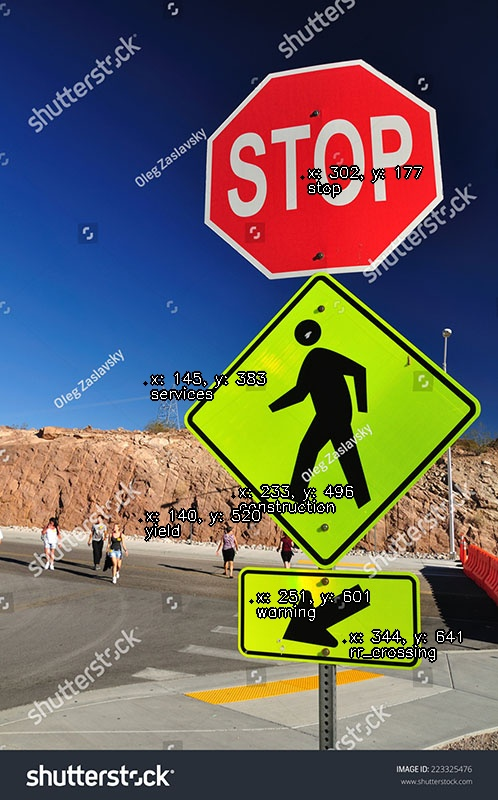
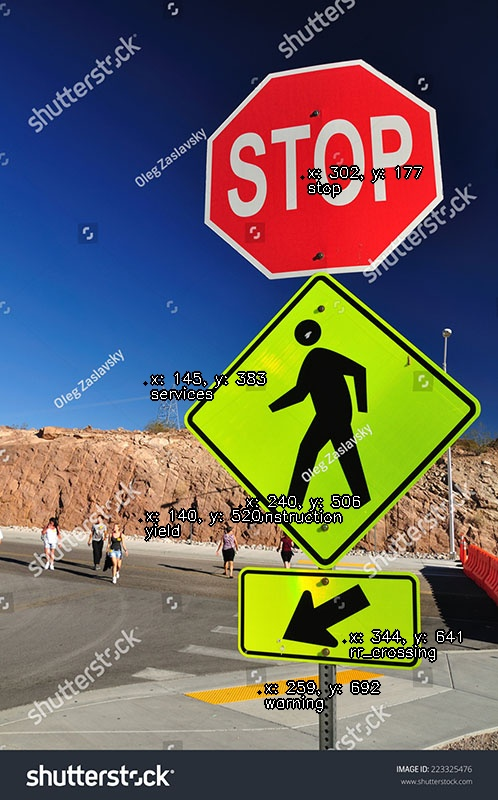
construction_fix

Changed region(s): [[0.4819, 0.5938, 0.7229, 0.6562], [0.512, 0.8438, 0.7831, 0.9062], [0.512, 0.7188, 0.753, 0.7812]]

diff --git a/homework/hw2/hw2.py b/homework/hw2/hw2.py
@@ -247,9 +247,9 @@ def identify_construction(img: np.ndarray) -> tuple:
     # Convert the image to HSV
     hsv = cv2.cvtColor(img_cp, cv2.COLOR_BGR2HSV)
 
-    # Define the color range for detecting yellow
-    lower_yellow = np.array([20, 100, 100])
-    upper_yellow = np.array([30, 255, 255])
+    # Define the color range for detecting orange
+    lower_orange = np.array([5, 100, 100])
+    upper_orange = np.array([20, 255, 255])
 
     # Create a mask for the orange color
     mask = cv2.inRange(hsv, lower_orange, upper_orange)
@@ -291,9 +291,9 @@ def identify_warning(img: np.ndarray) -> tuple:
     # Convert the image to HSV
     hsv = cv2.cvtColor(img_cp, cv2.COLOR_BGR2HSV)
 
-    # Define the color range for detecting orange
-    lower_orange = np.array([10, 100, 100])
-    upper_orange = np.array([25, 255, 255])
+    # Define the color range for detecting yellow
+    lower_yellow = np.array([22, 100, 100])
+    upper_yellow = np.array([30, 255, 255])
 
     # Define the color range for detecting yellow
     mask = cv2.inRange(hsv, lower_yellow, upper_yellow)
